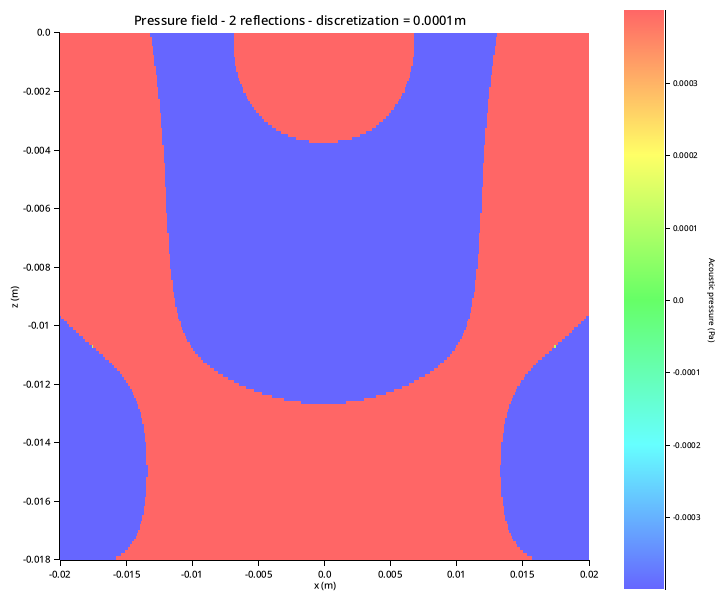
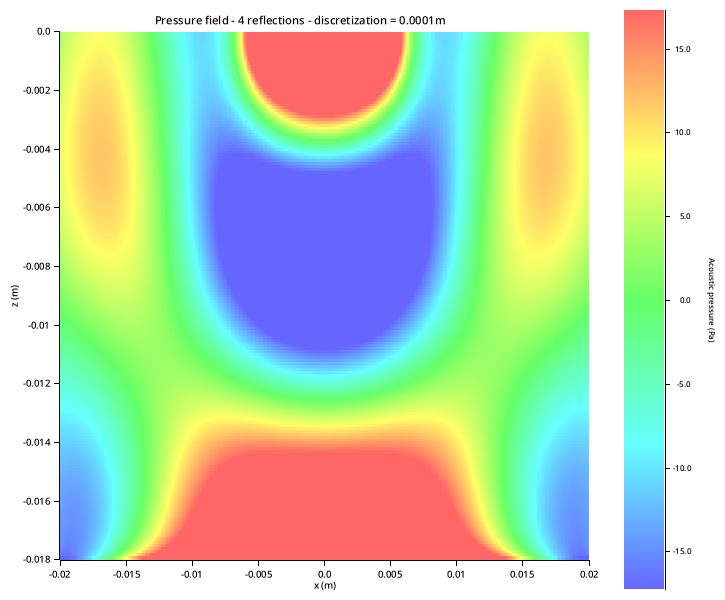
general plotting for field

diff --git a/src/plot.rs b/src/plot.rs
@@ -1,61 +1,42 @@
-use std::fs;
+use std::{fs, ops::Range};
 
 use image::{GenericImageView, ImageReader, RgbaImage};
-use ndarray::{Array1, Array2};
-use num_complex::Complex;
+use ndarray::Array1;
 use plotters::prelude::*;
 
-use crate::matrix_method::SimulationParametersArgs;
+use crate::matrix_method::{Field, FieldType, SimulationParametersArgs};
 
-pub fn plot_pressure_field(
-    pressure: &Array2<Complex<f64>>,
+pub fn plot_field(
+    field_info: (&Field, FieldType),
+    (zoom, saturation): (Option<Range<f64>>, f64),
     simulation_parameters: SimulationParametersArgs,
-    path: &str,
+    save_path: &str,
 ) -> Result<(), Box<dyn std::error::Error>> {
-    draw_pressure_field(pressure, simulation_parameters)?;
-    draw_color_map(pressure, simulation_parameters.saturation)?;
-    post_processing(path)?;
+    draw_field(field_info, simulation_parameters, (zoom, saturation))?;
+    draw_field_color_map(field_info, saturation)?;
+    post_processing(save_path)?;
     Ok(())
-}
-
-/* UTILS */
-fn pressure_field_levels(pressure: &Array2<Complex<f64>>, saturation: f64) -> (f64, f64) {
-    let (min_pressure, max_pressure) = pressure
-        .iter()
-        .fold((f64::INFINITY, f64::NEG_INFINITY), |(min, max), &p| {
-            (min.min(p.re), max.max(p.re))
-        });
-
-    return (-0.0004, 0.0004);
-    if min_pressure.abs() >= max_pressure.abs() {
-        (
-            -max_pressure.abs() / saturation,
-            max_pressure.abs() / saturation,
-        )
-    } else {
-        (
-            -min_pressure.abs() / saturation,
-            min_pressure.abs() / saturation,
-        )
-    }
 }
 
 /* HELPERS */
 
-fn draw_pressure_field(
-    pressure: &Array2<Complex<f64>>,
+const TMP_FIELD_PATH: &str = "./tmp/pressure_field.png";
+const TMP_COLORMAP_PATH: &str = "./tmp/colormap.png";
+
+fn draw_field(
+    (field, field_type): (&Field, FieldType),
     SimulationParametersArgs {
         x_min,
         x_max,
         z_min,
         z_max,
-        saturation,
         nb_of_reflection,
         disc,
         ..
     }: SimulationParametersArgs,
+    (zoom, saturation): (Option<Range<f64>>, f64),
 ) -> Result<(), Box<dyn std::error::Error>> {
-    let root = BitMapBackend::new("./tmp/pressure_field.png", (600, 600)).into_drawing_area();
+    let root = BitMapBackend::new(TMP_FIELD_PATH, (600, 600)).into_drawing_area();
     root.fill(&WHITE)?;
 
     let mut chart = ChartBuilder::on(&root)
@@ -63,8 +44,8 @@ fn draw_pressure_field(
         .x_label_area_size(30)
         .y_label_area_size(50)
         .caption(
-            format!("Pressure field - {nb_of_reflection} reflections - discretization = {disc}m"),
-            ("sans-serif", 16),
+            format!("{field_type} - {nb_of_reflection} reflections - discretization = {disc}m"),
+            ("sans-serif", 14),
         )
         .build_cartesian_2d(x_min..x_max, z_min..z_max)?;
 
@@ -79,18 +60,26 @@ fn draw_pressure_field(
     let plotting_area = chart.plotting_area();
     let plta = plotting_area.get_pixel_range();
     let (pw, ph) = (plta.0.end - plta.0.start, plta.1.end - plta.1.start);
-    let (rm, cm) = match *pressure.shape() {
+    let (rm, cm) = match *field.shape() {
         [rm, cm] => (rm, cm),
         _ => panic!(),
     };
 
-    let (minlvl, maxlvl) = pressure_field_levels(pressure, saturation);
+    // min max of the field zoom, aka where I want to watch the field
+    let (minlvl, maxlvl) = match zoom {
+        Some(range) => (range.start, range.end),
+        None => best_field_zoom(field, saturation),
+    };
+
+    // plot
     for row_id in 0..ph {
         for col_id in 0..pw {
             let (x, z) = (
                 x_min + (col_id as f64) * (x_max - x_min) / pw as f64,
                 z_min + (row_id as f64) * (z_max - z_min) / ph as f64,
             );
+
+            // if data point doesn't exist, take the nearest one
             let (mut i, mut j) = (
                 (row_id as f64 * rm as f64 / ph as f64).round() as usize,
                 (col_id as f64 * cm as f64 / pw as f64).round() as usize,
@@ -101,7 +90,7 @@ fn draw_pressure_field(
             if j == cm {
                 j -= 1;
             }
-            let p = pressure[[i, j]];
+            let p = field[[i, j]];
 
             plotting_area.draw_pixel(
                 (x, z),
@@ -114,13 +103,13 @@ fn draw_pressure_field(
     Ok(())
 }
 
-fn draw_color_map(
-    pressure: &Array2<Complex<f64>>,
+fn draw_field_color_map(
+    (field, field_type): (&Field, FieldType),
     saturation: f64,
 ) -> Result<(), Box<dyn std::error::Error>> {
-    let (minlvl, maxlvl) = pressure_field_levels(pressure, saturation);
+    let (minlvl, maxlvl) = best_field_zoom(field, saturation);
 
-    let root = BitMapBackend::new("./tmp/colormap.png", (150, 600)).into_drawing_area();
+    let root = BitMapBackend::new(TMP_COLORMAP_PATH, (150, 600)).into_drawing_area();
     root.fill(&WHITE)?;
 
     let mut chart = ChartBuilder::on(&root)
@@ -132,7 +121,7 @@ fn draw_color_map(
         .configure_mesh()
         .disable_mesh()
         .disable_x_axis()
-        .y_desc("Acoustic pressure (Pa)")
+        .y_desc(field_type.to_unit())
         .draw()?;
 
     let rect_points = Array1::linspace(minlvl, maxlvl, 1000);
@@ -155,9 +144,9 @@ fn draw_color_map(
     Ok(())
 }
 
-fn post_processing(path: &str) -> Result<(), Box<dyn std::error::Error>> {
-    let pf_img = ImageReader::open("./tmp/pressure_field.png")?.decode()?;
-    let cm_img = ImageReader::open("./tmp/colormap.png")?.decode()?;
+fn post_processing(save_path: &str) -> Result<(), Box<dyn std::error::Error>> {
+    let pf_img = ImageReader::open(TMP_FIELD_PATH)?.decode()?;
+    let cm_img = ImageReader::open(TMP_COLORMAP_PATH)?.decode()?;
 
     // image processing
     const CROP_BY: u32 = 25;
@@ -184,8 +173,29 @@ fn post_processing(path: &str) -> Result<(), Box<dyn std::error::Error>> {
         }
     }
 
-    merged_img.save(path).unwrap();
-    fs::remove_file("./tmp/pressure_field.png")?;
-    fs::remove_file("./tmp/colormap.png")?;
+    merged_img.save(save_path).unwrap();
+    fs::remove_file(TMP_FIELD_PATH)?;
+    fs::remove_file(TMP_COLORMAP_PATH)?;
     Ok(())
+}
+
+/* UTILS */
+fn best_field_zoom(field: &Field, saturation: f64) -> (f64, f64) {
+    let (min_pressure, max_pressure) = field
+        .iter()
+        .fold((f64::INFINITY, f64::NEG_INFINITY), |(min, max), &p| {
+            (min.min(p.re), max.max(p.re))
+        });
+
+    if min_pressure.abs() >= max_pressure.abs() {
+        (
+            -max_pressure.abs() / saturation,
+            max_pressure.abs() / saturation,
+        )
+    } else {
+        (
+            -min_pressure.abs() / saturation,
+            min_pressure.abs() / saturation,
+        )
+    }
 }

diff --git a/src/matrix_method/potential_field.rs b/src/matrix_method/potential_field.rs
@@ -5,20 +5,14 @@ use num_complex::Complex;
 
 use crate::matrix_method::C;
 
-use super::{SimulationParameters, I, RHO};
+use super::{Field, SimulationParameters, I, RHO};
 
-fn velocity_potential(
-    pressure: &Array2<Complex<f64>>,
-    sp: impl Into<SimulationParameters>,
-) -> Array2<Complex<f64>> {
+fn velocity_potential(pressure: &Field, sp: impl Into<SimulationParameters>) -> Field {
     let sp: SimulationParameters = sp.into();
     pressure.map(|p| -p / (I * sp.omega * RHO))
 }
 
-pub fn velocity_field(
-    pressure: &Array2<Complex<f64>>,
-    sp: impl Into<SimulationParameters>,
-) -> (Array2<Complex<f64>>, Array2<Complex<f64>>) {
+pub fn velocity_field(pressure: &Field, sp: impl Into<SimulationParameters>) -> (Field, Field) {
     let sp: SimulationParameters = sp.into();
     let velocity_potential = velocity_potential(pressure, sp.clone());
     // compute the gradient of the velocity potential
@@ -101,11 +95,12 @@ pub fn velocity_field(
     (vf_x, vf_z)
 }
 
+/// The output type is a complex field BUT the field itself is 100% real
 pub fn acoustic_radiation_potential(
-    pressure: &Array2<Complex<f64>>,
+    pressure: &Field,
     sp: impl Into<SimulationParameters>,
     sphere_radius: Option<f64>,
-) -> Array2<f64> {
+) -> Field {
     let vf = velocity_field(pressure, sp);
     assert_eq!(pressure.shape(), vf.0.shape());
 
@@ -128,7 +123,9 @@ pub fn acoustic_radiation_potential(
     }
 
     match sphere_radius {
-        Some(r) => relative_acoustic_potential.map(|ap| 2.0 * PI * r.powi(3) * ap),
-        None => relative_acoustic_potential,
+        Some(r) => {
+            relative_acoustic_potential.map(|ap| Complex::new(2.0 * PI * r.powi(3) * ap, 0.0))
+        }
+        None => relative_acoustic_potential.map(|ap| Complex::new(*ap, 0.0)),
     }
 }

diff --git a/src/main.rs b/src/main.rs
@@ -1,10 +1,11 @@
 use std::fs;
 
 use matrix_method::{
-    potential_field::acoustic_radiation_potential, pressure_field, SimulationParametersArgs, MM,
+    potential_field::acoustic_radiation_potential, pressure_field, FieldType,
+    SimulationParametersArgs, MM,
 };
 use num_complex::Complex;
-use plot::plot_pressure_field;
+use plot::plot_field;
 
 mod matrix_method;
 mod plot;
@@ -18,27 +19,31 @@ fn main() {
         x_max: 20.0 * MM,
         z_min: -18.0 * MM,
         z_max: 0.0 * MM,
-        nb_of_reflection: 2,
+        nb_of_reflection: 4,
         disc: 0.1 * MM,
         radius: 5.0 * MM,
         hole_radius: 0.0,
         freq: Complex::new(20_000.0, 0.0),
         u_0: 0.000001,
-        saturation: 3.0,
     };
     // let simulation_parameters = SimulationParametersArgs::default();
 
     let pressure = pressure_field::compute_pressure_field(simulation_parameters);
-    plot_pressure_field(&pressure, simulation_parameters, "./out/pressure_field.png")
-        .expect("Failed to draw pf");
+    plot_field(
+        (&pressure, FieldType::Pressure),
+        (None, 2.0),
+        simulation_parameters,
+        "./out/pressure_field.png",
+    )
+    .expect("Failed to draw pressure field");
 
     let acoustic_radiation_field =
         acoustic_radiation_potential(&pressure, simulation_parameters, None);
-
-    plot_pressure_field(
-        &acoustic_radiation_field.map(|&a| Complex::new(a, 0.0)),
+    plot_field(
+        (&acoustic_radiation_field, FieldType::RadiationPotential),
+        (Some(-0.0005..0.0005), 1.0),
         simulation_parameters,
-        "./out/acoustic_field.png",
+        "./out/acoustic_radiation_potential.png",
     )
-    .expect("Failed to draw pf");
+    .expect("Failed to draw acoustic field");
 }

diff --git a/src/matrix_method/mod.rs b/src/matrix_method/mod.rs
@@ -3,7 +3,38 @@ pub mod pressure_field;
 use ndarray::Array2;
 
 use num_complex::Complex;
-use std::f64::consts::PI;
+use std::{f64::consts::PI, fmt::Display};
+
+pub type Field = Array2<Complex<f64>>;
+
+#[derive(Clone, Copy)]
+#[repr(u8)]
+pub enum FieldType {
+    Pressure,
+    Velocity,
+    RadiationPotential,
+}
+
+impl FieldType {
+    pub fn to_unit(self) -> String {
+        match self {
+            FieldType::Pressure => "Acoustic pressure (Pa)",
+            FieldType::Velocity => "Velocity (m/s)",
+            FieldType::RadiationPotential => "Relative acoutic potential (N/m²)",
+        }
+        .to_string()
+    }
+}
+
+impl Display for FieldType {
+    fn fmt(&self, f: &mut std::fmt::Formatter<'_>) -> std::fmt::Result {
+        match self {
+            FieldType::Pressure => write!(f, "Pressure field"),
+            FieldType::Velocity => write!(f, "Velocity field"),
+            FieldType::RadiationPotential => write!(f, "Acoustic radiation potential"),
+        }
+    }
+}
 
 /* CONSTANT DEFINITION */
 
@@ -43,9 +74,6 @@ pub struct SimulationParametersArgs {
     pub freq: Complex<f64>,
     /// Displacement amplitude, m          
     pub u_0: f64,
-
-    // plot
-    pub saturation: f64,
 }
 
 impl From<SimulationParametersArgs> for SimulationParameters {
@@ -138,7 +166,6 @@ impl Default for SimulationParametersArgs {
             hole_radius: 2.0 * MM,
             freq: Complex::new(56000.0, 0.0),
             u_0: 0.0000060,
-            saturation: 4.0,
         }
     }
 }

diff --git a/src/matrix_method/pressure_field.rs b/src/matrix_method/pressure_field.rs
@@ -4,9 +4,7 @@ use super::*;
 
 /// compute the pressure field for each points.
 #[allow(non_snake_case)]
-pub fn compute_pressure_field(
-    simulation_params: impl Into<SimulationParameters>,
-) -> Array2<Complex<f64>> {
+pub fn compute_pressure_field(simulation_params: impl Into<SimulationParameters>) -> Field {
     let SimulationParameters {
         x_min,
         x_max,
